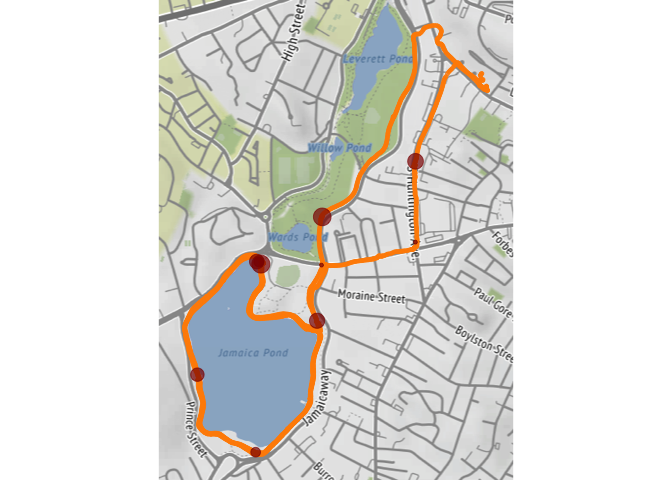
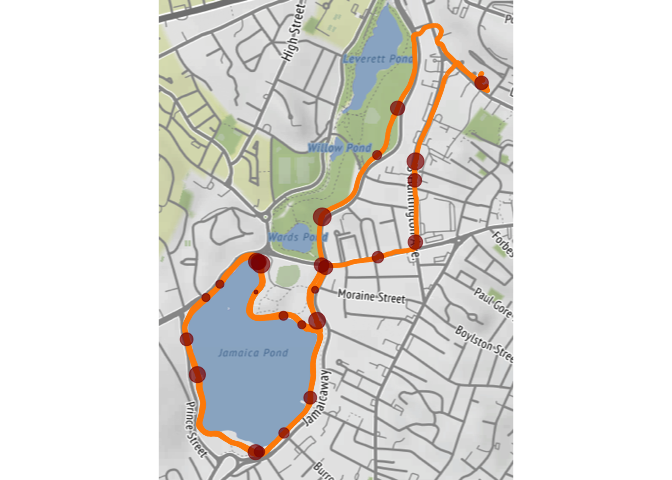
Adjusted stop length threshold.

diff --git a/test_stopr.md b/test_stopr.md
@@ -14,7 +14,7 @@ editor_options:
 
 
 ```r
-# Load packages.
+# Load packages, installing as needed
 if (!requireNamespace("pacman", quietly = TRUE)) install.packages("pacman")
 pacman::p_load(here, tibble, plotKML, dplyr, lubridate, readr, scales, knitr)
 pacman::p_load_gh("brianhigh/stopr")
@@ -28,20 +28,20 @@ source(here("reg_api.R"))
 # Define variables
 gpx_file <- here("2022-01-01_Morning_Run.gpx")
 csv_file <- here("test_data.csv")
-stop_threshold_secs = 60
+stop_threshold_secs = 45
 ```
 
 ## Import GPX file and save as CSV
 
 
 ```r
-# Import GPX file.
+# Import GPX file
 df <- as_tibble(readGPX(gpx_file)$tracks[[1]][[1]]) %>% 
   select(-ele) %>% 
   rename(longitude = lon, latitude = lat, datetime = time) %>% 
   mutate(datetime = as_datetime(datetime))
 
-# Save as CSV.
+# Save as CSV
 write_csv(df, csv_file)
 ```
 
@@ -51,10 +51,10 @@ Given a GPS track (coordinates and timestamps), find the stops on the route.
 
 
 ```r
-# Import the test data for a route.
+# Import the test data for a route
 df <- read_csv(csv_file, show_col_types = FALSE)
 
-# Find the stops on the route.
+# Find the stops on the route
 stops <- find_stops(df, stop_min_duration_s = stop_threshold_secs)
 ```
 
@@ -69,22 +69,38 @@ kable(stops)
 
 |start               |end                 | latitude| longitude| duration|
 |:-------------------|:-------------------|--------:|---------:|--------:|
+|2022-01-01 14:42:08 |2022-01-01 14:43:05 | 42.32782| -71.10874|       57|
+|2022-01-01 14:47:51 |2022-01-01 14:48:50 | 42.32687| -71.11300|       59|
+|2022-01-01 14:49:28 |2022-01-01 14:50:16 | 42.32511| -71.11404|       48|
 |2022-01-01 14:51:51 |2022-01-01 14:53:06 | 42.32279| -71.11682|       75|
 |2022-01-01 14:53:42 |2022-01-01 14:54:42 | 42.32098| -71.11686|       60|
+|2022-01-01 14:58:36 |2022-01-01 14:59:26 | 42.31469| -71.11876|       50|
 |2022-01-01 14:59:46 |2022-01-01 15:00:48 | 42.31397| -71.12020|       62|
+|2022-01-01 15:03:54 |2022-01-01 15:04:49 | 42.31820| -71.12370|       55|
+|2022-01-01 15:05:54 |2022-01-01 15:06:41 | 42.32027| -71.12201|       47|
 |2022-01-01 15:07:27 |2022-01-01 15:08:35 | 42.32112| -71.12014|       68|
+|2022-01-01 15:08:37 |2022-01-01 15:09:22 | 42.31997| -71.12018|       45|
+|2022-01-01 15:10:38 |2022-01-01 15:11:25 | 42.31875| -71.11785|       47|
+|2022-01-01 15:19:38 |2022-01-01 15:20:25 | 42.31977| -71.12272|       47|
 |2022-01-01 15:21:40 |2022-01-01 15:22:42 | 42.32110| -71.12004|       62|
+|2022-01-01 15:26:40 |2022-01-01 15:27:35 | 42.31601| -71.11743|       55|
+|2022-01-01 15:29:00 |2022-01-01 15:29:50 | 42.31399| -71.12000|       50|
 |2022-01-01 15:32:12 |2022-01-01 15:33:18 | 42.31688| -71.12315|       66|
 |2022-01-01 15:36:17 |2022-01-01 15:37:33 | 42.32102| -71.11993|       76|
+|2022-01-01 15:38:56 |2022-01-01 15:39:44 | 42.31909| -71.11879|       48|
 |2022-01-01 15:41:01 |2022-01-01 15:42:10 | 42.31890| -71.11708|       69|
+|2022-01-01 15:42:12 |2022-01-01 15:42:58 | 42.32006| -71.11718|       46|
+|2022-01-01 15:43:00 |2022-01-01 15:43:59 | 42.32090| -71.11665|       59|
+|2022-01-01 15:45:03 |2022-01-01 15:45:55 | 42.32128| -71.11400|       52|
 |2022-01-01 15:46:23 |2022-01-01 15:47:23 | 42.32185| -71.11210|       60|
+|2022-01-01 15:48:01 |2022-01-01 15:48:58 | 42.32416| -71.11212|       57|
 |2022-01-01 15:48:59 |2022-01-01 15:50:09 | 42.32488| -71.11209|       70|
 
 ## Create bounding box for map
 
 
 ```r
-# Prepare a data frame to use for making the bounding box of the basemap.
+# Prepare a data frame to use for making the bounding box of the basemap
 center_lat <- mean(range(df$latitude))
 center_lon <- mean(range(df$longitude))
 border <- 0.005
@@ -97,7 +113,7 @@ bbox.df <- data.frame(
 
 
 ```r
-# Create the basemap.
+# Create the basemap
 bbox <- make_bbox(lon, lat, bbox.df, f = .4)
 basemap <- get_stadiamap(bbox, zoom = 15, maptype = "stamen_terrain")
 ```
@@ -110,7 +126,7 @@ basemap <- get_stadiamap(bbox, zoom = 15, maptype = "stamen_terrain")
 
 
 ```r
-# Create the plot.
+# Create the plot
 p <- ggmap(basemap) +
   geom_point(mapping = aes(x = longitude, y = latitude),
              data = df, color = 'darkorange', size = 1, alpha = 0.7) +
